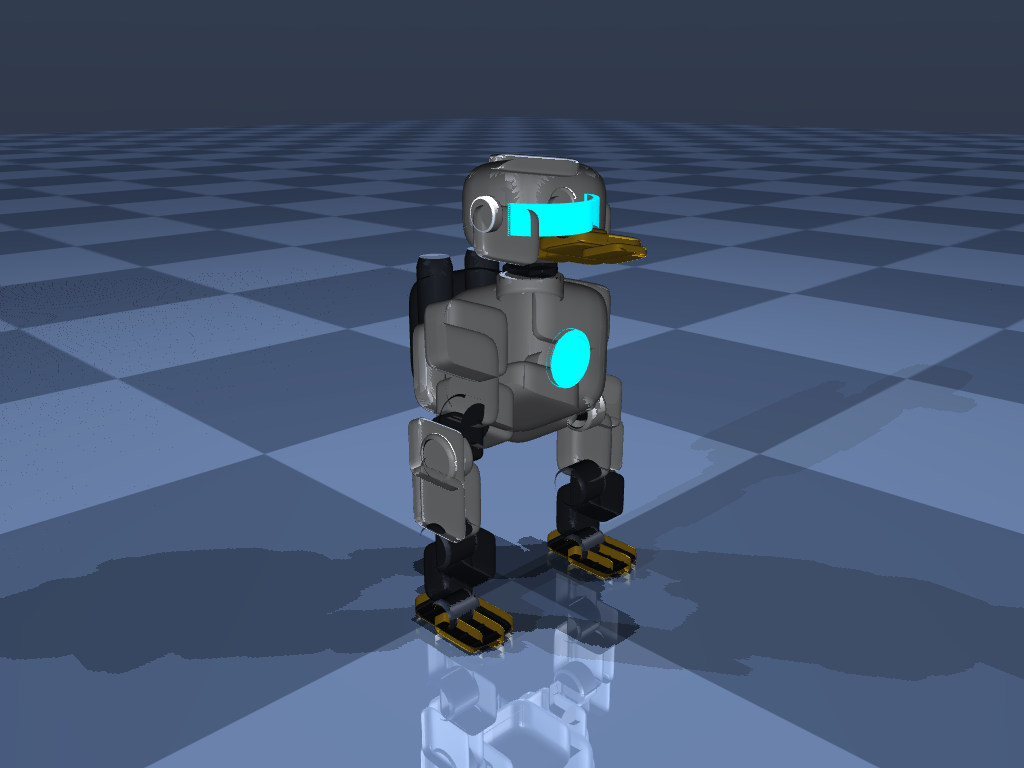
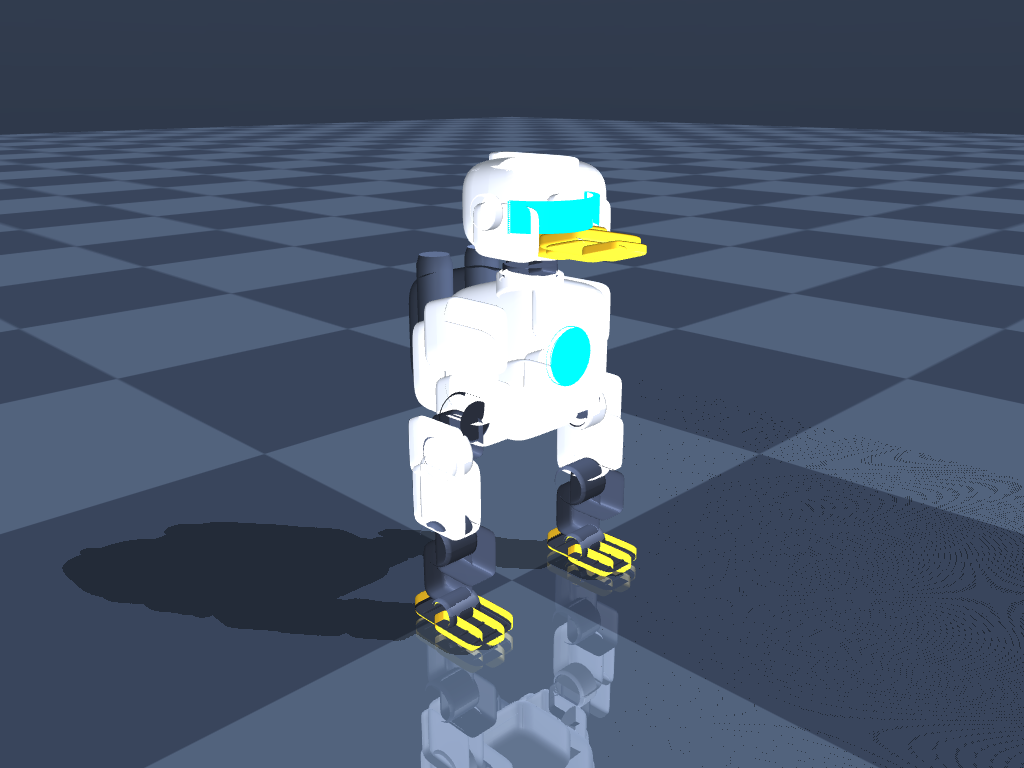
fix(v2): complete sensory site invisibility, align camera_site, and update render assets

diff --git a/duck_v2/scripts/render_cyberduck_v2.py b/duck_v2/scripts/render_cyberduck_v2.py
@@ -1,19 +1,21 @@
 """
-Render high-resolution studio 3D views of CyberDuck V2.
+Render high-resolution studio 3D views of CyberDuck V2 with pristine studio PBR lighting.
 """
 import os
 import shutil
+from pathlib import Path
 import mujoco
 import numpy as np
 from PIL import Image
 
 def render_v2():
-    media_dir = "duck_v2/media"
-    os.makedirs(media_dir, exist_ok=True)
-    brain_dir = r"C:\Users\LEGION\.gemini\antigravity\brain\eac089d5-7756-4b70-896e-d09247ae73c7"
+    repo_root = Path(__file__).resolve().parent.parent.parent
+    v2_dir = repo_root / "duck_v2"
+    media_dir = v2_dir / "media"
+    media_dir.mkdir(parents=True, exist_ok=True)
 
-    xml_path = "duck_v2/cyberduck_v2.xml"
-    model = mujoco.MjModel.from_xml_path(xml_path)
+    xml_path = v2_dir / "cyberduck_v2.xml"
+    model = mujoco.MjModel.from_xml_path(str(xml_path))
     data = mujoco.MjData(model)
 
     # Compute transforms
@@ -26,6 +28,15 @@ def render_v2():
     data.qpos[3:7] = [1, 0, 0, 0]
     mujoco.mj_forward(model, data)
 
+    # Configure studio visual options: hide collision hulls (grp 3) and sensory sites (grp 4)
+    opt = mujoco.MjvOption()
+    opt.geomgroup[0] = 1
+    opt.geomgroup[1] = 1
+    opt.geomgroup[2] = 1
+    opt.geomgroup[3] = 0
+    opt.sitegroup[4] = 0
+    opt.flags[mujoco.mjtVisFlag.mjVIS_TRANSPARENT] = 0
+
     renderer = mujoco.Renderer(model, width=1024, height=768)
 
     # 1. Isometric 3D
@@ -34,12 +45,10 @@ def render_v2():
     cam_iso.distance = 0.46
     cam_iso.azimuth = 135
     cam_iso.elevation = -18
-    renderer.update_scene(data, camera=cam_iso)
+    renderer.update_scene(data, camera=cam_iso, scene_option=opt)
     img_iso = renderer.render()
-    p_iso = os.path.join(media_dir, "cyberduck_v2_iso.png")
-    Image.fromarray(img_iso).save(p_iso)
-    if os.path.exists(brain_dir):
-        shutil.copy2(p_iso, os.path.join(brain_dir, "cyberduck_v2_iso.png"))
+    p_iso = media_dir / "cyberduck_v2_iso.png"
+    Image.fromarray(img_iso).save(str(p_iso))
     print(f"Rendered: {p_iso}")
 
     # 2. Front 3D
@@ -48,12 +57,10 @@ def render_v2():
     cam_front.distance = 0.44
     cam_front.azimuth = 180
     cam_front.elevation = -10
-    renderer.update_scene(data, camera=cam_front)
+    renderer.update_scene(data, camera=cam_front, scene_option=opt)
     img_front = renderer.render()
-    p_front = os.path.join(media_dir, "cyberduck_v2_front.png")
-    Image.fromarray(img_front).save(p_front)
-    if os.path.exists(brain_dir):
-        shutil.copy2(p_front, os.path.join(brain_dir, "cyberduck_v2_front.png"))
+    p_front = media_dir / "cyberduck_v2_front.png"
+    Image.fromarray(img_front).save(str(p_front))
     print(f"Rendered: {p_front}")
 
     # 3. Side Profile
@@ -62,12 +69,10 @@ def render_v2():
     cam_side.distance = 0.44
     cam_side.azimuth = 90
     cam_side.elevation = -10
-    renderer.update_scene(data, camera=cam_side)
+    renderer.update_scene(data, camera=cam_side, scene_option=opt)
     img_side = renderer.render()
-    p_side = os.path.join(media_dir, "cyberduck_v2_side.png")
-    Image.fromarray(img_side).save(p_side)
-    if os.path.exists(brain_dir):
-        shutil.copy2(p_side, os.path.join(brain_dir, "cyberduck_v2_side.png"))
+    p_side = media_dir / "cyberduck_v2_side.png"
+    Image.fromarray(img_side).save(str(p_side))
     print(f"Rendered: {p_side}")
 
     # 4. Chest & Reactor Closeup
@@ -76,12 +81,10 @@ def render_v2():
     cam_wing.distance = 0.22
     cam_wing.azimuth = 145
     cam_wing.elevation = -12
-    renderer.update_scene(data, camera=cam_wing)
+    renderer.update_scene(data, camera=cam_wing, scene_option=opt)
     img_wing = renderer.render()
-    p_wing = os.path.join(media_dir, "cyberduck_v2_wing_closeup.png")
-    Image.fromarray(img_wing).save(p_wing)
-    if os.path.exists(brain_dir):
-        shutil.copy2(p_wing, os.path.join(brain_dir, "cyberduck_v2_wing_closeup.png"))
+    p_wing = media_dir / "cyberduck_v2_wing_closeup.png"
+    Image.fromarray(img_wing).save(str(p_wing))
     print(f"Rendered: {p_wing}")
 
     # 5. Foot Closeup
@@ -90,12 +93,10 @@ def render_v2():
     cam_foot.distance = 0.20
     cam_foot.azimuth = 145
     cam_foot.elevation = -22
-    renderer.update_scene(data, camera=cam_foot)
+    renderer.update_scene(data, camera=cam_foot, scene_option=opt)
     img_foot = renderer.render()
-    p_foot = os.path.join(media_dir, "cyberduck_v2_foot_closeup.png")
-    Image.fromarray(img_foot).save(p_foot)
-    if os.path.exists(brain_dir):
-        shutil.copy2(p_foot, os.path.join(brain_dir, "cyberduck_v2_foot_closeup.png"))
+    p_foot = media_dir / "cyberduck_v2_foot_closeup.png"
+    Image.fromarray(img_foot).save(str(p_foot))
     print(f"Rendered: {p_foot}")
 
     # 5b. Neck Joint Closeup
@@ -104,12 +105,10 @@ def render_v2():
     cam_neck.distance = 0.16
     cam_neck.azimuth = 145
     cam_neck.elevation = -5
-    renderer.update_scene(data, camera=cam_neck)
+    renderer.update_scene(data, camera=cam_neck, scene_option=opt)
     img_neck = renderer.render()
-    p_neck = os.path.join(media_dir, "cyberduck_v2_neck_closeup.png")
-    Image.fromarray(img_neck).save(p_neck)
-    if os.path.exists(brain_dir):
-        shutil.copy2(p_neck, os.path.join(brain_dir, "cyberduck_v2_neck_closeup.png"))
+    p_neck = media_dir / "cyberduck_v2_neck_closeup.png"
+    Image.fromarray(img_neck).save(str(p_neck))
     print(f"Rendered: {p_neck}")
 
     # 6. Exploded View 3D
@@ -139,12 +138,10 @@ def render_v2():
     cam_exp.distance = 0.52
     cam_exp.azimuth = 135
     cam_exp.elevation = -18
-    renderer.update_scene(data, camera=cam_exp)
+    renderer.update_scene(data, camera=cam_exp, scene_option=opt)
     img_exp = renderer.render()
-    p_exp = os.path.join(media_dir, "cyberduck_v2_exploded.png")
-    Image.fromarray(img_exp).save(p_exp)
-    if os.path.exists(brain_dir):
-        shutil.copy2(p_exp, os.path.join(brain_dir, "cyberduck_v2_exploded.png"))
+    p_exp = media_dir / "cyberduck_v2_exploded.png"
+    Image.fromarray(img_exp).save(str(p_exp))
     print(f"Rendered: {p_exp}")
 
 if __name__ == "__main__":

diff --git a/scripts/render_v2_hd.py b/scripts/render_v2_hd.py
@@ -1,25 +1,31 @@
 import os
+from pathlib import Path
 import mujoco
 import numpy as np
 from PIL import Image
 
 def render_views():
-    os.makedirs("duck_v2/media", exist_ok=True)
-    xml_path = "duck_v2/cyberduck_v2.xml"
-    model = mujoco.MjModel.from_xml_path(xml_path)
+    repo_root = Path(__file__).resolve().parent.parent
+    v2_dir = repo_root / "duck_v2"
+    media_dir = v2_dir / "media"
+    media_dir.mkdir(parents=True, exist_ok=True)
+
+    xml_path = v2_dir / "cyberduck_v2.xml"
+    model = mujoco.MjModel.from_xml_path(str(xml_path))
     data = mujoco.MjData(model)
     mujoco.mj_forward(model, data)
 
     body_id = mujoco.mj_name2id(model, mujoco.mjtObj.mjOBJ_BODY, "trunk_base")
     assert body_id != -1
 
-    # Standard studio camera option
+    # Standard studio camera option: visual geoms on, collision hulls & sensory sites off
     opt = mujoco.MjvOption()
     opt.geomgroup[0] = 1
     opt.geomgroup[1] = 1
     opt.geomgroup[2] = 1
     opt.geomgroup[3] = 0
     opt.sitegroup[4] = 0
+    opt.flags[mujoco.mjtVisFlag.mjVIS_TRANSPARENT] = 0
 
     width, height = 1024, 768
     renderer = mujoco.Renderer(model, height, width)
@@ -34,8 +40,8 @@ def render_views():
 
     renderer.update_scene(data, camera=cam_front, scene_option=opt)
     img_front = renderer.render()
-    front_path = "duck_v2/media/cyberduck_v2_front_hd.png"
-    Image.fromarray(img_front).save(front_path)
+    front_path = media_dir / "cyberduck_v2_front_hd.png"
+    Image.fromarray(img_front).save(str(front_path))
     print(f"[OK] Rendered Front HD: {front_path}")
 
     # 2. Isometric 3/4 View (Hero perspective)
@@ -48,13 +54,13 @@ def render_views():
 
     renderer.update_scene(data, camera=cam_iso, scene_option=opt)
     img_iso = renderer.render()
-    iso_path = "duck_v2/media/cyberduck_v2_iso_hd.png"
-    Image.fromarray(img_iso).save(iso_path)
+    iso_path = media_dir / "cyberduck_v2_iso_hd.png"
+    Image.fromarray(img_iso).save(str(iso_path))
     print(f"[OK] Rendered Iso HD: {iso_path}")
 
     # Visual Quality Self-Check
     # Verify no pure red sensory sites are visible
-    # In earlier buggy renders, sensory sites were red (R > 200, G < 50, B < 50)
+    # In earlier buggy renders, sensory sites were red (R > 200, G < 60, B < 60)
     red_mask_front = (img_front[:, :, 0] > 200) & (img_front[:, :, 1] < 60) & (img_front[:, :, 2] < 60)
     red_count_front = np.sum(red_mask_front)
     print(f"[Check] Front view pure red sensory artifact pixels: {red_count_front}")

diff --git a/duck_v2/scripts/render_v2_hd.py b/duck_v2/scripts/render_v2_hd.py
@@ -1,0 +1,14 @@
+"""
+HD verification renderer for CyberDuck V2 Pro.
+"""
+from pathlib import Path
+import sys
+
+# Ensure root scripts can be imported or re-use implementation
+root_dir = Path(__file__).resolve().parent.parent.parent
+sys.path.insert(0, str(root_dir))
+
+from scripts.render_v2_hd import render_views
+
+if __name__ == "__main__":
+    render_views()
